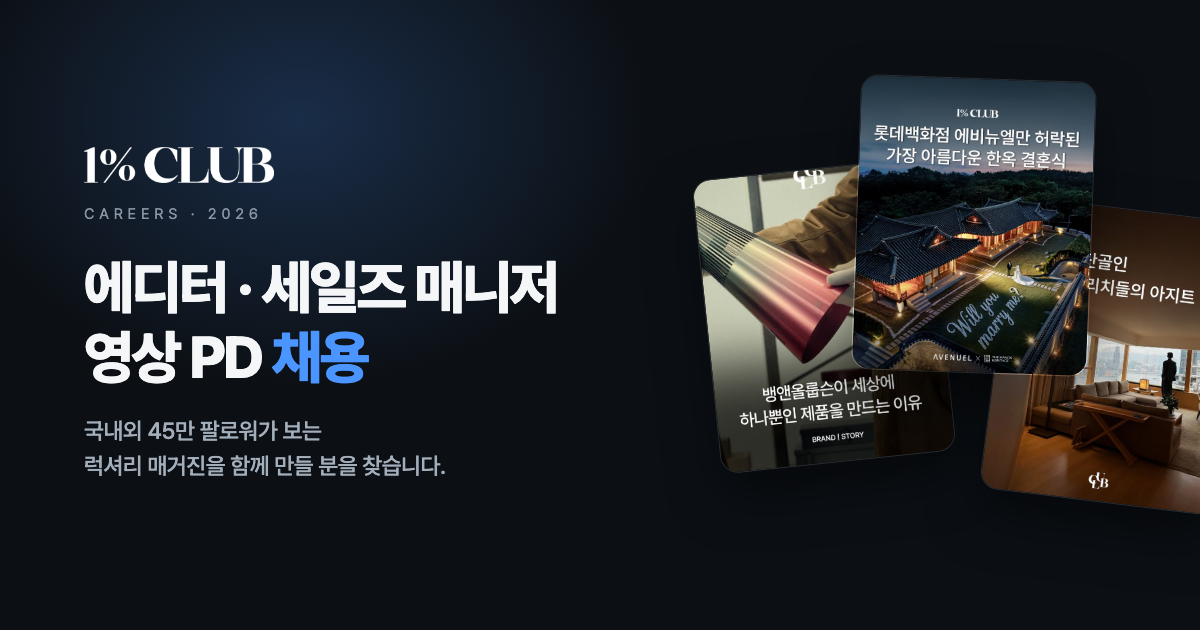
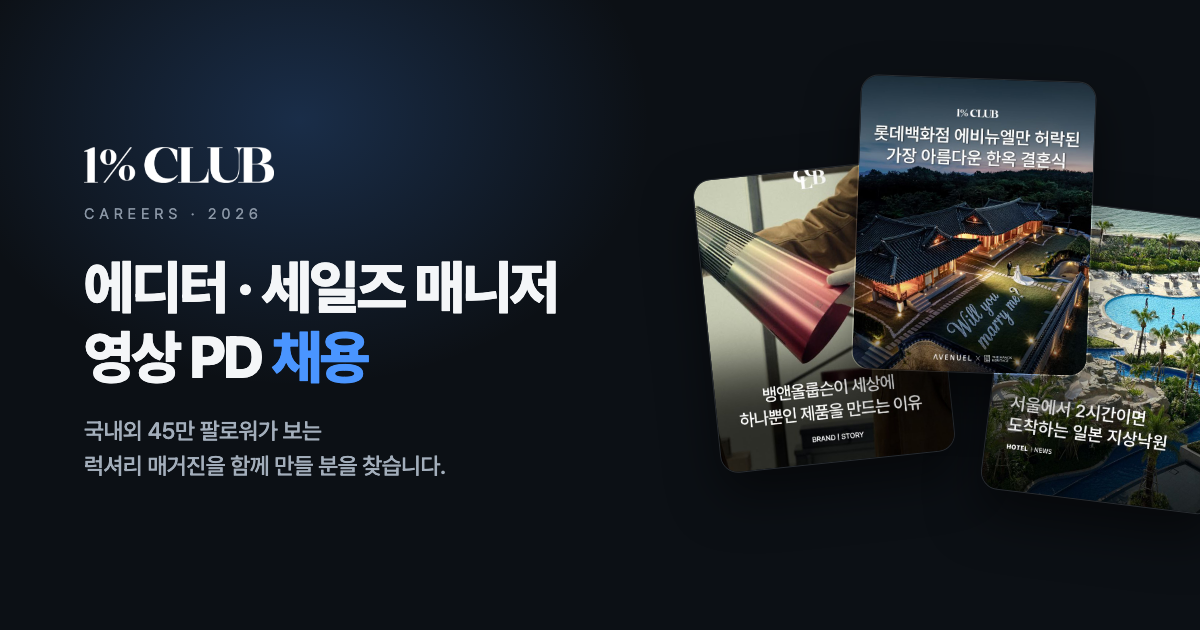
콘텐츠 팀 채용 기준 반영: 경력 무관·콘텐츠 링크로 판단·기획력 최우선
- 에디터·영상 PD: 경력 무관, 직접 만든 콘텐츠 링크 필수, 이력서·자기소개서 선택
- 지원 메일 양식과 필수 항목, 채용 절차 문구 갱신, JSON-LD experienceRequirements 추가
- 연예인 이름이 있는 표지(cv-upperhouse) 제거, 공유 미리보기 이미지 재생성

Changed region(s): [[0.8017, 0.3317, 1.0, 0.8143]]

diff --git a/index.html b/index.html
@@ -37,7 +37,7 @@
     {
       "@type": "JobPosting",
       "title": "에디터 (Content Editor)",
-      "description": "<p>1%CLUB 코리아의 콘텐츠를 기획하고, 취재하고, 씁니다.<\/p><p><strong>이런 일을 합니다<\/strong><\/p><ul><li>@1club.kr 데일리 콘텐츠를 기획하고 만듭니다. 차량, 호텔, 미식, 패션, 아트, 리빙을 다룹니다.<\/li><li>브랜드 광고 콘텐츠를 기획부터 시안, 컨펌, 업로드까지 진행합니다.<\/li><li>운영 대행 중인 브랜드 공식 계정의 콘텐츠도 기획하고 만듭니다.<\/li><li>브랜드 행사, 팝업, 호텔 현장을 취재하고 인터뷰합니다.<\/li><li>캐러셀·릴스 카피와 캡션, 웹매거진 아티클을 씁니다.<\/li><li>조회·저장·공유 데이터를 보고 다음 기획에 반영합니다.<\/li><\/ul><p><strong>이런 분을 찾습니다<\/strong><\/p><ul><li>짧은 문장으로 읽는 사람의 마음을 움직일 수 있는 분<\/li><li>럭셔리·라이프스타일 브랜드를 좋아하고 꾸준히 찾아보는 분<\/li><li>인스타그램 캐러셀과 릴스의 문법을 이해하는 분<\/li><li>여러 콘텐츠의 마감과 일정을 스스로 관리하는 분<\/li><\/ul><p><strong>이런 분이면 더 좋습니다<\/strong><\/p><ul><li>매거진, 브랜드, SNS 채널 에디터 경험<\/li><li>영어 인터뷰가 가능한 분<\/li><li>사진 촬영과 간단한 영상 편집이 가능한 분<\/li><li>트렌드를 빠르게 읽고, 새 도구를 배우는 데 적극적인 분<\/li><\/ul><p><strong>근무 조건<\/strong><\/p><ul><li>근무지: 서울 성동구 왕십리로2길 20, 4층 (1%CLUB 성수 사무실)<\/li><li>근무 시간: 주 5일, 10:00~19:00 (직무 특성상 행사 취재·촬영 일정에 따라 야간·주말 근무나 국내외 출장이 있을 수 있음)<\/li><li>근무 형태: 풀타임 (계약 형태와 수습 기간은 면접에서 안내)<\/li><li>급여: 면접 후 협의<\/li><li>지원: jh.kim@1percentclub.kr 이메일 접수, 채용 시 마감<\/li><\/ul>",
+      "description": "<p>1%CLUB 코리아의 콘텐츠를 기획하고, 취재하고, 씁니다.<\/p><p><b>경력은 보지 않습니다.<\/b> 직접 만든 콘텐츠 링크로만 판단합니다. 무엇보다 기획력을 봅니다. 사람들이 무엇을 원하는지 읽고, 어떤 콘텐츠를 만들어야 할지 기획하는 분이 필요합니다.<\/p>\n<h4>이런 일을 합니다<\/h4>\n<ol>\n<li>@1club.kr 데일리 콘텐츠를 기획하고 만듭니다. 차량, 호텔, 미식, 패션, 아트, 리빙을 다룹니다.<\/li>\n<li>브랜드 광고 콘텐츠를 기획부터 시안, 컨펌, 업로드까지 진행합니다.<\/li>\n<li>운영 대행 중인 브랜드 공식 계정의 콘텐츠도 기획하고 만듭니다.<\/li>\n<li>브랜드 행사, 팝업, 호텔 현장을 취재하고 인터뷰합니다.<\/li>\n<li>캐러셀·릴스 카피와 캡션, 웹매거진 아티클을 씁니다.<\/li>\n<li>조회·저장·공유 데이터를 보고 다음 기획에 반영합니다.<\/li>\n<\/ol>\n\n<h4>이런 분을 찾습니다<\/h4>\n<ul>\n<li>사람들이 무엇을 원하는지 읽고, 어떤 콘텐츠를 만들어야 할지 기획하는 분<\/li>\n<li>짧은 문장으로 읽는 사람의 마음을 움직일 수 있는 분<\/li>\n<li>럭셔리·라이프스타일 브랜드를 좋아하고 꾸준히 찾아보는 분<\/li>\n<li>인스타그램 캐러셀과 릴스의 문법을 이해하는 분<\/li>\n<li>여러 콘텐츠의 마감과 일정을 스스로 관리하는 분<\/li>\n<\/ul>\n\n<h4>이런 분이면 더 좋습니다<\/h4>\n<ul class=\"plus\">\n<li>직접 기획하고 운영해 본 SNS 계정이나 콘텐츠가 있는 분<\/li>\n<li>영어 인터뷰가 가능한 분<\/li>\n<li>사진 촬영과 간단한 영상 편집이 가능한 분<\/li>\n<li>트렌드를 빠르게 읽고, 새 도구를 배우는 데 적극적인 분<\/li>\n<\/ul>\n<p><b>익숙함 80%, 신선함 20%.<\/b> 1%CLUB의 기획 기준입니다. 독자가 이미 좋아하는 것에 새로운 한 가지를 더합니다.<\/p>\n<h4>제출 서류<\/h4>\n<ul class=\"role-docs\"><li>직접 기획하고 만든 콘텐츠 링크 (필수)<\/li><li>이력서·자기소개서 (선택)<\/li><\/ul>\n<p><small>링크마다 맡은 역할과 기획 의도를 한 줄씩 적어 주시면 좋습니다.<\/small><\/p>\n<p><strong>근무 조건<\/strong><\/p><ul><li>근무지: 서울 성동구 왕십리로2길 20, 4층 (1%CLUB 성수 사무실)<\/li><li>근무 시간: 주 5일, 10:00~19:00 (직무 특성상 행사 취재·촬영 일정에 따라 야간·주말 근무나 국내외 출장이 있을 수 있음)<\/li><li>근무 형태: 풀타임 (계약 형태와 수습 기간은 면접에서 안내)<\/li><li>급여: 면접 후 협의<\/li><li>지원: jh.kim@1percentclub.kr 이메일 접수, 채용 시 마감<\/li><\/ul>",
       "datePosted": "2026-10-21",
       "employmentType": "FULL_TIME",
       "url": "https://jhkim-lgtm.github.io/careers/#editor",
@@ -61,12 +61,13 @@
           "addressCountry": "KR"
         }
       },
-      "directApply": false
+      "directApply": false,
+      "experienceRequirements": "no requirements"
     },
     {
       "@type": "JobPosting",
       "title": "세일즈 매니저 (Sales Manager)",
-      "description": "<p>브랜드의 문의를 계약으로, 계약을 다음 계약으로 만듭니다.<\/p><p><strong>이런 일을 합니다<\/strong><\/p><ul><li>광고 문의를 응대합니다. 접수부터 유선 상담, 제안, 계약까지 맡습니다.<\/li><li>제안서와 견적서를 쓰고 브랜드 미팅을 진행합니다.<\/li><li>계약 이후를 챙깁니다. 세금계산서, 광고 소재 요청, 에디터 전달, 시안 컨펌, 업로드까지 관리합니다.<\/li><li>VIP 디너, 클래스, 브랜드 행사 같은 오프라인 이벤트를 총괄 PM으로 진행합니다.<\/li><li>VIP·인플루언서 리스트를 관리합니다.<\/li><li>기존 고객과 재계약하고, 운영 대행까지 거래를 넓힙니다.<\/li><\/ul><p><strong>이런 분을 찾습니다<\/strong><\/p><ul><li>영어로 메일을 쓰고 미팅을 진행할 수 있는 분<\/li><li>책임감 있고 꼼꼼한 분<\/li><li>눈치와 센스, 비즈니스 매너를 갖춘 분<\/li><li>빠르게 회신하고 끝까지 챙기는 분<\/li><\/ul><p><strong>이런 분이면 더 좋습니다<\/strong><\/p><ul><li>광고·미디어·PR 에이전시의 세일즈 또는 광고주 담당(AE) 경험<\/li><li>럭셔리, 호텔, F&amp;B, 주류 업계 경험<\/li><li>행사 기획·운영 경험<\/li><li>일본어나 중국어가 가능한 분<\/li><\/ul><p><strong>근무 조건<\/strong><\/p><ul><li>근무지: 서울 성동구 왕십리로2길 20, 4층 (1%CLUB 성수 사무실)<\/li><li>근무 시간: 주 5일, 10:00~19:00 (직무 특성상 행사 취재·촬영 일정에 따라 야간·주말 근무나 국내외 출장이 있을 수 있음)<\/li><li>근무 형태: 풀타임 (계약 형태와 수습 기간은 면접에서 안내)<\/li><li>급여: 면접 후 협의<\/li><li>지원: jh.kim@1percentclub.kr 이메일 접수, 채용 시 마감<\/li><\/ul>",
+      "description": "<p>브랜드의 문의를 계약으로, 계약을 다음 계약으로 만듭니다.<\/p>\n<h4>이런 일을 합니다<\/h4>\n<ol>\n<li>광고 문의를 응대합니다. 접수부터 유선 상담, 제안, 계약까지 맡습니다.<\/li>\n<li>제안서와 견적서를 쓰고 브랜드 미팅을 진행합니다.<\/li>\n<li>계약 이후를 챙깁니다. 세금계산서, 광고 소재 요청, 에디터 전달, 시안 컨펌, 업로드까지 관리합니다.<\/li>\n<li>VIP 디너, 클래스, 브랜드 행사 같은 오프라인 이벤트를 총괄 PM으로 진행합니다.<\/li>\n<li>VIP·인플루언서 리스트를 관리합니다.<\/li>\n<li>기존 고객과 재계약하고, 운영 대행까지 거래를 넓힙니다.<\/li>\n<\/ol>\n\n<h4>이런 분을 찾습니다<\/h4>\n<ul>\n<li>영어로 메일을 쓰고 미팅을 진행할 수 있는 분<\/li>\n<li>책임감 있고 꼼꼼한 분<\/li>\n<li>눈치와 센스, 비즈니스 매너를 갖춘 분<\/li>\n<li>빠르게 회신하고 끝까지 챙기는 분<\/li>\n<\/ul>\n\n<h4>이런 분이면 더 좋습니다<\/h4>\n<ul class=\"plus\">\n<li>광고·미디어·PR 에이전시의 세일즈 또는 광고주 담당(AE) 경험<\/li>\n<li>럭셔리, 호텔, F&amp;B, 주류 업계 경험<\/li>\n<li>행사 기획·운영 경험<\/li>\n<li>일본어나 중국어가 가능한 분<\/li>\n<\/ul>\n<p><b>와서 배우면 됩니다.<\/b> 빠르게 익히는 분이라면 신입도 환영합니다.<\/p>\n<h4>제출 서류<\/h4>\n<ul class=\"role-docs\"><li>이력서<\/li><li>자기소개서 (자유 형식)<\/li><\/ul>\n<p><strong>근무 조건<\/strong><\/p><ul><li>근무지: 서울 성동구 왕십리로2길 20, 4층 (1%CLUB 성수 사무실)<\/li><li>근무 시간: 주 5일, 10:00~19:00 (직무 특성상 행사 취재·촬영 일정에 따라 야간·주말 근무나 국내외 출장이 있을 수 있음)<\/li><li>근무 형태: 풀타임 (계약 형태와 수습 기간은 면접에서 안내)<\/li><li>급여: 면접 후 협의<\/li><li>지원: jh.kim@1percentclub.kr 이메일 접수, 채용 시 마감<\/li><\/ul>",
       "datePosted": "2026-10-21",
       "employmentType": "FULL_TIME",
       "url": "https://jhkim-lgtm.github.io/careers/#sales",
@@ -95,7 +96,7 @@
     {
       "@type": "JobPosting",
       "title": "영상 PD (현장 촬영 · 팟캐스트 촬영)",
-      "description": "<p>브랜드 현장과 팟캐스트를 찍고, 1%CLUB다운 영상으로 완성합니다.<\/p><p><strong>이런 일을 합니다<\/strong><\/p><ul><li>브랜드 행사, 팝업, 호텔, 레스토랑 현장에서 영상과 사진을 촬영합니다.<\/li><li>비디오 팟캐스트와 인터뷰를 촬영합니다. 멀티캠, 조명, 오디오 세팅부터 녹화까지 맡습니다.<\/li><li>릴스·쇼츠 같은 숏폼과 유튜브 롱폼을 편집합니다.<\/li><li>콘티와 촬영 리스트를 만들고 현장을 진행합니다.<\/li><li>촬영 장비를 관리합니다.<\/li><\/ul><p><strong>이런 분을 찾습니다<\/strong><\/p><ul><li>촬영·편집 포트폴리오가 있는 분<\/li><li>카메라, 조명, 오디오 장비를 다룰 수 있는 분<\/li><li>프리미어 프로, 파이널 컷 프로, 다빈치 리졸브 중 하나 이상에 능숙한 분<\/li><li>현장 변수에 빠르게 대응하는 분<\/li><\/ul><p><strong>이런 분이면 더 좋습니다<\/strong><\/p><ul><li>멀티캠 인터뷰·팟캐스트 촬영 경험<\/li><li>드론 촬영 경험<\/li><li>색보정과 사운드 믹싱 경험<\/li><li>럭셔리, 패션, F&amp;B 브랜드 촬영 경험<\/li><\/ul><p><strong>근무 조건<\/strong><\/p><ul><li>근무지: 서울 성동구 왕십리로2길 20, 4층 (1%CLUB 성수 사무실)<\/li><li>근무 시간: 주 5일, 10:00~19:00 (직무 특성상 행사 취재·촬영 일정에 따라 야간·주말 근무나 국내외 출장이 있을 수 있음)<\/li><li>근무 형태: 풀타임 (계약 형태와 수습 기간은 면접에서 안내)<\/li><li>급여: 면접 후 협의<\/li><li>지원: jh.kim@1percentclub.kr 이메일 접수, 채용 시 마감<\/li><\/ul>",
+      "description": "<p>브랜드 현장과 팟캐스트를 찍고, 1%CLUB다운 영상으로 완성합니다.<\/p><p><b>경력은 보지 않습니다.<\/b> 직접 만든 콘텐츠 링크로만 판단합니다. 무엇보다 기획력을 봅니다. 사람들이 무엇을 원하는지 읽고, 어떤 콘텐츠를 만들어야 할지 기획하는 분이 필요합니다.<\/p>\n<h4>이런 일을 합니다<\/h4>\n<ol>\n<li>브랜드 행사, 팝업, 호텔, 레스토랑 현장에서 영상과 사진을 촬영합니다.<\/li>\n<li>비디오 팟캐스트와 인터뷰를 촬영합니다. 멀티캠, 조명, 오디오 세팅부터 녹화까지 맡습니다.<\/li>\n<li>릴스·쇼츠 같은 숏폼과 유튜브 롱폼을 편집합니다.<\/li>\n<li>콘티와 촬영 리스트를 만들고 현장을 진행합니다.<\/li>\n<li>촬영 장비를 관리합니다.<\/li>\n<\/ol>\n\n<h4>이런 분을 찾습니다<\/h4>\n<ul>\n<li>사람들이 무엇을 원하는지 읽고, 어떤 콘텐츠를 만들어야 할지 기획하는 분<\/li>\n<li>직접 촬영하고 편집한 콘텐츠가 있는 분<\/li>\n<li>카메라, 조명, 오디오 장비를 다룰 수 있는 분<\/li>\n<li>프리미어 프로, 파이널 컷 프로, 다빈치 리졸브 중 하나 이상에 능숙한 분<\/li>\n<li>현장 변수에 빠르게 대응하는 분<\/li>\n<\/ul>\n\n<h4>이런 분이면 더 좋습니다<\/h4>\n<ul class=\"plus\">\n<li>멀티캠 인터뷰나 팟캐스트를 찍을 수 있는 분<\/li>\n<li>드론 촬영이 가능한 분<\/li>\n<li>색보정과 사운드 믹싱이 가능한 분<\/li>\n<li>럭셔리·패션·F&amp;B 브랜드 영상을 만들어 본 분<\/li>\n<\/ul>\n<p><b>현장이 많은 자리입니다.<\/b> 브랜드 행사 촬영은 저녁에 진행되기도 합니다.<\/p>\n<h4>제출 서류<\/h4>\n<ul class=\"role-docs\"><li>직접 촬영·편집한 콘텐츠 링크 (필수)<\/li><li>이력서·자기소개서 (선택)<\/li><\/ul>\n<p><small>링크마다 맡은 역할과 기획 의도를 한 줄씩 적어 주시면 좋습니다.<\/small><\/p>\n<p><strong>근무 조건<\/strong><\/p><ul><li>근무지: 서울 성동구 왕십리로2길 20, 4층 (1%CLUB 성수 사무실)<\/li><li>근무 시간: 주 5일, 10:00~19:00 (직무 특성상 행사 취재·촬영 일정에 따라 야간·주말 근무나 국내외 출장이 있을 수 있음)<\/li><li>근무 형태: 풀타임 (계약 형태와 수습 기간은 면접에서 안내)<\/li><li>급여: 면접 후 협의<\/li><li>지원: jh.kim@1percentclub.kr 이메일 접수, 채용 시 마감<\/li><\/ul>",
       "datePosted": "2026-10-21",
       "employmentType": "FULL_TIME",
       "url": "https://jhkim-lgtm.github.io/careers/#pd",
@@ -119,7 +120,8 @@
           "addressCountry": "KR"
         }
       },
-      "directApply": false
+      "directApply": false,
+      "experienceRequirements": "no requirements"
     }
   ]
 }
@@ -163,7 +165,7 @@
     <div class="marquee-track">
       <img src="assets/img/cv-bo.jpg" alt="" width="640" height="800">
       <img src="assets/img/cv-hanok.jpg" alt="" width="640" height="800">
-      <img src="assets/img/cv-upperhouse.jpg" alt="" width="640" height="800">
+      <img src="assets/img/cv-capella.jpg" alt="" width="640" height="800">
       <img src="assets/img/cv-grill.jpg" alt="" width="640" height="800">
       <img src="assets/img/cv-ryukyu.jpg" alt="" width="640" height="800" loading="lazy">
       <img src="assets/img/cv-chapel.jpg" alt="" width="640" height="800" loading="lazy">
@@ -171,7 +173,7 @@
       <img src="assets/img/cv-hyatt.jpg" alt="" width="640" height="800" loading="lazy">
       <img src="assets/img/cv-bo.jpg" alt="" width="640" height="800" loading="lazy">
       <img src="assets/img/cv-hanok.jpg" alt="" width="640" height="800" loading="lazy">
-      <img src="assets/img/cv-upperhouse.jpg" alt="" width="640" height="800" loading="lazy">
+      <img src="assets/img/cv-capella.jpg" alt="" width="640" height="800" loading="lazy">
       <img src="assets/img/cv-grill.jpg" alt="" width="640" height="800" loading="lazy">
       <img src="assets/img/cv-ryukyu.jpg" alt="" width="640" height="800" loading="lazy">
       <img src="assets/img/cv-chapel.jpg" alt="" width="640" height="800" loading="lazy">
@@ -391,7 +393,7 @@
     <div class="reveal">
       <p class="kicker" lang="en">05 · Open positions</p>
       <h2 class="h2" id="positions-title">지금 세 포지션에서<br class="br-m"> 함께할 분을 찾습니다.</h2>
-      <p class="lead">세 포지션 모두 성수 사무실에서 풀타임으로 일합니다. 포지션을 고르면 하는 일과 찾는 사람을 볼 수 있습니다.</p>
+      <p class="lead">세 포지션 모두 성수 사무실에서 풀타임으로 일합니다. 포지션을 고르면 하는 일과 찾는 사람을 볼 수 있습니다. 콘텐츠 팀(에디터·영상 PD)은 경력을 보지 않습니다. 직접 만든 콘텐츠로만 판단합니다.</p>
     </div>
 
     <div class="role-tabs body-gap" id="role-tabs" role="tablist" aria-label="채용 포지션">
@@ -401,23 +403,24 @@
     </div>
 
     <!-- EDITOR -->
-    <div class="role" id="editor" role="tabpanel" aria-labelledby="tab-editor" tabindex="-1" data-role="에디터" data-mailto="mailto:jh.kim@1percentclub.kr?subject=%5B%EC%A7%80%EC%9B%90%5D%20%EC%97%90%EB%94%94%ED%84%B0_%EC%9D%B4%EB%A6%84&amp;body=1.%20%EC%A7%80%EC%9B%90%20%ED%8F%AC%EC%A7%80%EC%85%98%3A%20%EC%97%90%EB%94%94%ED%84%B0%0D%0A2.%20%EC%9D%B4%EB%A6%84%3A%0D%0A3.%20%EC%97%B0%EB%9D%BD%EC%B2%98%3A%0D%0A4.%20%ED%9D%AC%EB%A7%9D%20%EC%97%B0%EB%B4%89%3A%0D%0A5.%20%EC%9D%B8%EC%8A%A4%ED%83%80%EA%B7%B8%EB%9E%A8%20%EC%95%84%EC%9D%B4%EB%94%94%3A%0D%0A6.%20%ED%8F%AC%ED%8A%B8%ED%8F%B4%EB%A6%AC%EC%98%A4%20%EB%A7%81%ED%81%AC%3A%0D%0A%0D%0A%EC%9D%B4%EB%A0%A5%EC%84%9C%EC%99%80%20%EC%9E%90%EA%B8%B0%EC%86%8C%EA%B0%9C%EC%84%9C%EB%A5%BC%20%EC%B2%A8%EB%B6%80%ED%95%98%EA%B1%B0%EB%82%98%20%EB%A7%81%ED%81%AC%EB%A1%9C%20%EB%B3%B4%EB%82%B4%20%EC%A3%BC%EC%84%B8%EC%9A%94.">
+    <div class="role" id="editor" role="tabpanel" aria-labelledby="tab-editor" tabindex="-1" data-role="에디터" data-mailto="mailto:jh.kim@1percentclub.kr?subject=%5B%EC%A7%80%EC%9B%90%5D%20%EC%97%90%EB%94%94%ED%84%B0_%EC%9D%B4%EB%A6%84&amp;body=1.%20%EC%A7%80%EC%9B%90%20%ED%8F%AC%EC%A7%80%EC%85%98%3A%20%EC%97%90%EB%94%94%ED%84%B0%0D%0A2.%20%EC%9D%B4%EB%A6%84%3A%0D%0A3.%20%EC%97%B0%EB%9D%BD%EC%B2%98%3A%0D%0A4.%20%ED%9D%AC%EB%A7%9D%20%EC%97%B0%EB%B4%89%3A%0D%0A5.%20%EC%9D%B8%EC%8A%A4%ED%83%80%EA%B7%B8%EB%9E%A8%20%EC%95%84%EC%9D%B4%EB%94%94%3A%0D%0A6.%20%EC%A7%81%EC%A0%91%20%EB%A7%8C%EB%93%A0%20%EC%BD%98%ED%85%90%EC%B8%A0%20%EB%A7%81%ED%81%AC%28%ED%95%84%EC%88%98%2C%20%EB%A7%81%ED%81%AC%EB%A7%88%EB%8B%A4%20%EB%A7%A1%EC%9D%80%20%EC%97%AD%ED%95%A0%EA%B3%BC%20%EA%B8%B0%ED%9A%8D%20%EC%9D%98%EB%8F%84%20%ED%95%9C%20%EC%A4%84%29%3A%0D%0A%0D%0A%EA%B2%BD%EB%A0%A5%EC%9D%80%20%EB%B3%B4%EC%A7%80%20%EC%95%8A%EA%B3%A0%20%EC%BD%98%ED%85%90%EC%B8%A0%EB%A1%9C%20%ED%8C%90%EB%8B%A8%ED%95%A9%EB%8B%88%EB%8B%A4.%20%EC%9D%B4%EB%A0%A5%EC%84%9C%EC%99%80%20%EC%9E%90%EA%B8%B0%EC%86%8C%EA%B0%9C%EC%84%9C%EB%8A%94%20%EC%84%A0%ED%83%9D%EC%9E%85%EB%8B%88%EB%8B%A4.">
       <div class="role-side">
         <div class="card role-card">
           <p class="eyebrow" lang="en">Position 01</p>
           <h3 class="role-title">에디터</h3>
           <p class="role-en" lang="en">Content Editor</p>
           <p class="role-one">1%CLUB 코리아의 콘텐츠를 기획하고, 취재하고, 씁니다.</p>
-          <ul class="tags"><li>풀타임</li><li>성수</li><li>포트폴리오 필수</li></ul>
-          <a class="btn btn-primary btn-block" href="mailto:jh.kim@1percentclub.kr?subject=%5B%EC%A7%80%EC%9B%90%5D%20%EC%97%90%EB%94%94%ED%84%B0_%EC%9D%B4%EB%A6%84&amp;body=1.%20%EC%A7%80%EC%9B%90%20%ED%8F%AC%EC%A7%80%EC%85%98%3A%20%EC%97%90%EB%94%94%ED%84%B0%0D%0A2.%20%EC%9D%B4%EB%A6%84%3A%0D%0A3.%20%EC%97%B0%EB%9D%BD%EC%B2%98%3A%0D%0A4.%20%ED%9D%AC%EB%A7%9D%20%EC%97%B0%EB%B4%89%3A%0D%0A5.%20%EC%9D%B8%EC%8A%A4%ED%83%80%EA%B7%B8%EB%9E%A8%20%EC%95%84%EC%9D%B4%EB%94%94%3A%0D%0A6.%20%ED%8F%AC%ED%8A%B8%ED%8F%B4%EB%A6%AC%EC%98%A4%20%EB%A7%81%ED%81%AC%3A%0D%0A%0D%0A%EC%9D%B4%EB%A0%A5%EC%84%9C%EC%99%80%20%EC%9E%90%EA%B8%B0%EC%86%8C%EA%B0%9C%EC%84%9C%EB%A5%BC%20%EC%B2%A8%EB%B6%80%ED%95%98%EA%B1%B0%EB%82%98%20%EB%A7%81%ED%81%AC%EB%A1%9C%20%EB%B3%B4%EB%82%B4%20%EC%A3%BC%EC%84%B8%EC%9A%94.">에디터 지원하기</a>
+          <ul class="tags"><li>풀타임</li><li>성수</li><li>경력 무관</li><li>콘텐츠 링크로 지원</li></ul>
+          <a class="btn btn-primary btn-block" href="mailto:jh.kim@1percentclub.kr?subject=%5B%EC%A7%80%EC%9B%90%5D%20%EC%97%90%EB%94%94%ED%84%B0_%EC%9D%B4%EB%A6%84&amp;body=1.%20%EC%A7%80%EC%9B%90%20%ED%8F%AC%EC%A7%80%EC%85%98%3A%20%EC%97%90%EB%94%94%ED%84%B0%0D%0A2.%20%EC%9D%B4%EB%A6%84%3A%0D%0A3.%20%EC%97%B0%EB%9D%BD%EC%B2%98%3A%0D%0A4.%20%ED%9D%AC%EB%A7%9D%20%EC%97%B0%EB%B4%89%3A%0D%0A5.%20%EC%9D%B8%EC%8A%A4%ED%83%80%EA%B7%B8%EB%9E%A8%20%EC%95%84%EC%9D%B4%EB%94%94%3A%0D%0A6.%20%EC%A7%81%EC%A0%91%20%EB%A7%8C%EB%93%A0%20%EC%BD%98%ED%85%90%EC%B8%A0%20%EB%A7%81%ED%81%AC%28%ED%95%84%EC%88%98%2C%20%EB%A7%81%ED%81%AC%EB%A7%88%EB%8B%A4%20%EB%A7%A1%EC%9D%80%20%EC%97%AD%ED%95%A0%EA%B3%BC%20%EA%B8%B0%ED%9A%8D%20%EC%9D%98%EB%8F%84%20%ED%95%9C%20%EC%A4%84%29%3A%0D%0A%0D%0A%EA%B2%BD%EB%A0%A5%EC%9D%80%20%EB%B3%B4%EC%A7%80%20%EC%95%8A%EA%B3%A0%20%EC%BD%98%ED%85%90%EC%B8%A0%EB%A1%9C%20%ED%8C%90%EB%8B%A8%ED%95%A9%EB%8B%88%EB%8B%A4.%20%EC%9D%B4%EB%A0%A5%EC%84%9C%EC%99%80%20%EC%9E%90%EA%B8%B0%EC%86%8C%EA%B0%9C%EC%84%9C%EB%8A%94%20%EC%84%A0%ED%83%9D%EC%9E%85%EB%8B%88%EB%8B%A4.">에디터 지원하기</a>
         </div>
         <div class="role-visual">
           <img src="assets/img/cv-bo.jpg" alt="1%CLUB 코리아 콘텐츠 — 뱅앤올룹슨 브랜드 스토리" width="640" height="800" loading="lazy">
-          <img src="assets/img/cv-upperhouse.jpg" alt="1%CLUB 코리아 콘텐츠 — 홍콩 호텔 소개" width="640" height="800" loading="lazy">
+          <img src="assets/img/cv-ryukyu.jpg" alt="1%CLUB 코리아 콘텐츠 — 류큐 호텔 소개" width="640" height="800" loading="lazy">
           <img src="assets/img/cv-wedding.jpg" alt="1%CLUB 코리아 콘텐츠 — 호텔 웨딩 소개" width="640" height="800" loading="lazy">
         </div>
       </div>
       <div class="role-body">
+        <p class="role-note"><b>경력은 보지 않습니다.</b> 직접 만든 콘텐츠 링크로만 판단합니다. 무엇보다 기획력을 봅니다. 사람들이 무엇을 원하는지 읽고, 어떤 콘텐츠를 만들어야 할지 기획하는 분이 필요합니다.</p>
         <div class="card role-block">
           <h4>이런 일을 합니다</h4>
           <ol>
@@ -432,6 +435,7 @@
         <div class="card role-block">
           <h4>이런 분을 찾습니다</h4>
           <ul>
+            <li>사람들이 무엇을 원하는지 읽고, 어떤 콘텐츠를 만들어야 할지 기획하는&nbsp;분</li>
             <li>짧은 문장으로 읽는 사람의 마음을 움직일 수 있는&nbsp;분</li>
             <li>럭셔리·라이프스타일 브랜드를 좋아하고 꾸준히 찾아보는&nbsp;분</li>
             <li>인스타그램 캐러셀과 릴스의 문법을 이해하는&nbsp;분</li>
@@ -441,7 +445,7 @@
         <div class="card role-block">
           <h4>이런 분이면 더 좋습니다</h4>
           <ul class="plus">
-            <li>매거진, 브랜드, SNS 채널 에디터 경험</li>
+            <li>직접 기획하고 운영해 본 SNS 계정이나 콘텐츠가 있는&nbsp;분</li>
             <li>영어 인터뷰가 가능한&nbsp;분</li>
             <li>사진 촬영과 간단한 영상 편집이 가능한&nbsp;분</li>
             <li>트렌드를 빠르게 읽고, 새 도구를 배우는 데 적극적인&nbsp;분</li>
@@ -450,10 +454,11 @@
         <p class="role-note"><b>익숙함 80%, 신선함 20%.</b> 1%CLUB의 기획 기준입니다. 독자가 이미 좋아하는 것에 새로운 한 가지를 더합니다.</p>
         <div class="card role-block">
           <h4>제출 서류</h4>
-          <ul class="role-docs"><li>이력서</li><li>자기소개서 (자유 형식)</li><li>직접 쓴 콘텐츠 포트폴리오 (링크 가능)</li></ul>
+          <ul class="role-docs"><li>직접 기획하고 만든 콘텐츠 링크 (필수)</li><li>이력서·자기소개서 (선택)</li></ul>
+          <p><small>링크마다 맡은 역할과 기획 의도를 한 줄씩 적어 주시면 좋습니다.</small></p>
         </div>
         <div class="role-apply">
-          <a class="btn btn-primary btn-block" href="mailto:jh.kim@1percentclub.kr?subject=%5B%EC%A7%80%EC%9B%90%5D%20%EC%97%90%EB%94%94%ED%84%B0_%EC%9D%B4%EB%A6%84&amp;body=1.%20%EC%A7%80%EC%9B%90%20%ED%8F%AC%EC%A7%80%EC%85%98%3A%20%EC%97%90%EB%94%94%ED%84%B0%0D%0A2.%20%EC%9D%B4%EB%A6%84%3A%0D%0A3.%20%EC%97%B0%EB%9D%BD%EC%B2%98%3A%0D%0A4.%20%ED%9D%AC%EB%A7%9D%20%EC%97%B0%EB%B4%89%3A%0D%0A5.%20%EC%9D%B8%EC%8A%A4%ED%83%80%EA%B7%B8%EB%9E%A8%20%EC%95%84%EC%9D%B4%EB%94%94%3A%0D%0A6.%20%ED%8F%AC%ED%8A%B8%ED%8F%B4%EB%A6%AC%EC%98%A4%20%EB%A7%81%ED%81%AC%3A%0D%0A%0D%0A%EC%9D%B4%EB%A0%A5%EC%84%9C%EC%99%80%20%EC%9E%90%EA%B8%B0%EC%86%8C%EA%B0%9C%EC%84%9C%EB%A5%BC%20%EC%B2%A8%EB%B6%80%ED%95%98%EA%B1%B0%EB%82%98%20%EB%A7%81%ED%81%AC%EB%A1%9C%20%EB%B3%B4%EB%82%B4%20%EC%A3%BC%EC%84%B8%EC%9A%94.">에디터 지원하기</a>
+          <a class="btn btn-primary btn-block" href="mailto:jh.kim@1percentclub.kr?subject=%5B%EC%A7%80%EC%9B%90%5D%20%EC%97%90%EB%94%94%ED%84%B0_%EC%9D%B4%EB%A6%84&amp;body=1.%20%EC%A7%80%EC%9B%90%20%ED%8F%AC%EC%A7%80%EC%85%98%3A%20%EC%97%90%EB%94%94%ED%84%B0%0D%0A2.%20%EC%9D%B4%EB%A6%84%3A%0D%0A3.%20%EC%97%B0%EB%9D%BD%EC%B2%98%3A%0D%0A4.%20%ED%9D%AC%EB%A7%9D%20%EC%97%B0%EB%B4%89%3A%0D%0A5.%20%EC%9D%B8%EC%8A%A4%ED%83%80%EA%B7%B8%EB%9E%A8%20%EC%95%84%EC%9D%B4%EB%94%94%3A%0D%0A6.%20%EC%A7%81%EC%A0%91%20%EB%A7%8C%EB%93%A0%20%EC%BD%98%ED%85%90%EC%B8%A0%20%EB%A7%81%ED%81%AC%28%ED%95%84%EC%88%98%2C%20%EB%A7%81%ED%81%AC%EB%A7%88%EB%8B%A4%20%EB%A7%A1%EC%9D%80%20%EC%97%AD%ED%95%A0%EA%B3%BC%20%EA%B8%B0%ED%9A%8D%20%EC%9D%98%EB%8F%84%20%ED%95%9C%20%EC%A4%84%29%3A%0D%0A%0D%0A%EA%B2%BD%EB%A0%A5%EC%9D%80%20%EB%B3%B4%EC%A7%80%20%EC%95%8A%EA%B3%A0%20%EC%BD%98%ED%85%90%EC%B8%A0%EB%A1%9C%20%ED%8C%90%EB%8B%A8%ED%95%A9%EB%8B%88%EB%8B%A4.%20%EC%9D%B4%EB%A0%A5%EC%84%9C%EC%99%80%20%EC%9E%90%EA%B8%B0%EC%86%8C%EA%B0%9C%EC%84%9C%EB%8A%94%20%EC%84%A0%ED%83%9D%EC%9E%85%EB%8B%88%EB%8B%A4.">에디터 지원하기</a>
           <p class="role-mail"><span>jh.kim@1percentclub.kr</span><button class="copy-btn" type="button" data-copy="jh.kim@1percentclub.kr">주소 복사</button></p>
         </div>
         <p class="role-switch">다른 포지션 보기 <a href="#sales">세일즈 매니저</a><a href="#pd">영상 PD</a></p>
@@ -521,15 +526,15 @@
     </div><!-- /role -->
 
     <!-- VIDEO PD -->
-    <div class="role" id="pd" role="tabpanel" aria-labelledby="tab-pd" tabindex="-1" data-role="영상 PD" data-mailto="mailto:jh.kim@1percentclub.kr?subject=%5B%EC%A7%80%EC%9B%90%5D%20%EC%98%81%EC%83%81%20PD_%EC%9D%B4%EB%A6%84&amp;body=1.%20%EC%A7%80%EC%9B%90%20%ED%8F%AC%EC%A7%80%EC%85%98%3A%20%EC%98%81%EC%83%81%20PD%0D%0A2.%20%EC%9D%B4%EB%A6%84%3A%0D%0A3.%20%EC%97%B0%EB%9D%BD%EC%B2%98%3A%0D%0A4.%20%ED%9D%AC%EB%A7%9D%20%EC%97%B0%EB%B4%89%3A%0D%0A5.%20%EC%9D%B8%EC%8A%A4%ED%83%80%EA%B7%B8%EB%9E%A8%20%EC%95%84%EC%9D%B4%EB%94%94%3A%0D%0A6.%20%ED%8F%AC%ED%8A%B8%ED%8F%B4%EB%A6%AC%EC%98%A4%20%EB%A7%81%ED%81%AC%3A%0D%0A%0D%0A%EC%9D%B4%EB%A0%A5%EC%84%9C%EC%99%80%20%EC%9E%90%EA%B8%B0%EC%86%8C%EA%B0%9C%EC%84%9C%EB%A5%BC%20%EC%B2%A8%EB%B6%80%ED%95%98%EA%B1%B0%EB%82%98%20%EB%A7%81%ED%81%AC%EB%A1%9C%20%EB%B3%B4%EB%82%B4%20%EC%A3%BC%EC%84%B8%EC%9A%94.">
+    <div class="role" id="pd" role="tabpanel" aria-labelledby="tab-pd" tabindex="-1" data-role="영상 PD" data-mailto="mailto:jh.kim@1percentclub.kr?subject=%5B%EC%A7%80%EC%9B%90%5D%20%EC%98%81%EC%83%81%20PD_%EC%9D%B4%EB%A6%84&amp;body=1.%20%EC%A7%80%EC%9B%90%20%ED%8F%AC%EC%A7%80%EC%85%98%3A%20%EC%98%81%EC%83%81%20PD%0D%0A2.%20%EC%9D%B4%EB%A6%84%3A%0D%0A3.%20%EC%97%B0%EB%9D%BD%EC%B2%98%3A%0D%0A4.%20%ED%9D%AC%EB%A7%9D%20%EC%97%B0%EB%B4%89%3A%0D%0A5.%20%EC%9D%B8%EC%8A%A4%ED%83%80%EA%B7%B8%EB%9E%A8%20%EC%95%84%EC%9D%B4%EB%94%94%3A%0D%0A6.%20%EC%A7%81%EC%A0%91%20%EB%A7%8C%EB%93%A0%20%EC%BD%98%ED%85%90%EC%B8%A0%20%EB%A7%81%ED%81%AC%28%ED%95%84%EC%88%98%2C%20%EB%A7%81%ED%81%AC%EB%A7%88%EB%8B%A4%20%EB%A7%A1%EC%9D%80%20%EC%97%AD%ED%95%A0%EA%B3%BC%20%EA%B8%B0%ED%9A%8D%20%EC%9D%98%EB%8F%84%20%ED%95%9C%20%EC%A4%84%29%3A%0D%0A%0D%0A%EA%B2%BD%EB%A0%A5%EC%9D%80%20%EB%B3%B4%EC%A7%80%20%EC%95%8A%EA%B3%A0%20%EC%BD%98%ED%85%90%EC%B8%A0%EB%A1%9C%20%ED%8C%90%EB%8B%A8%ED%95%A9%EB%8B%88%EB%8B%A4.%20%EC%9D%B4%EB%A0%A5%EC%84%9C%EC%99%80%20%EC%9E%90%EA%B8%B0%EC%86%8C%EA%B0%9C%EC%84%9C%EB%8A%94%20%EC%84%A0%ED%83%9D%EC%9E%85%EB%8B%88%EB%8B%A4.">
       <div class="role-side">
         <div class="card role-card">
           <p class="eyebrow" lang="en">Position 03</p>
           <h3 class="role-title">영상 PD</h3>
           <p class="role-en" lang="en">Video PD · On-site &amp; Podcast</p>
           <p class="role-one">브랜드 현장과 팟캐스트를 찍고, 1%CLUB다운 영상으로 완성합니다.</p>
-          <ul class="tags"><li>풀타임</li><li>성수</li><li>포트폴리오 필수</li></ul>
-          <a class="btn btn-primary btn-block" href="mailto:jh.kim@1percentclub.kr?subject=%5B%EC%A7%80%EC%9B%90%5D%20%EC%98%81%EC%83%81%20PD_%EC%9D%B4%EB%A6%84&amp;body=1.%20%EC%A7%80%EC%9B%90%20%ED%8F%AC%EC%A7%80%EC%85%98%3A%20%EC%98%81%EC%83%81%20PD%0D%0A2.%20%EC%9D%B4%EB%A6%84%3A%0D%0A3.%20%EC%97%B0%EB%9D%BD%EC%B2%98%3A%0D%0A4.%20%ED%9D%AC%EB%A7%9D%20%EC%97%B0%EB%B4%89%3A%0D%0A5.%20%EC%9D%B8%EC%8A%A4%ED%83%80%EA%B7%B8%EB%9E%A8%20%EC%95%84%EC%9D%B4%EB%94%94%3A%0D%0A6.%20%ED%8F%AC%ED%8A%B8%ED%8F%B4%EB%A6%AC%EC%98%A4%20%EB%A7%81%ED%81%AC%3A%0D%0A%0D%0A%EC%9D%B4%EB%A0%A5%EC%84%9C%EC%99%80%20%EC%9E%90%EA%B8%B0%EC%86%8C%EA%B0%9C%EC%84%9C%EB%A5%BC%20%EC%B2%A8%EB%B6%80%ED%95%98%EA%B1%B0%EB%82%98%20%EB%A7%81%ED%81%AC%EB%A1%9C%20%EB%B3%B4%EB%82%B4%20%EC%A3%BC%EC%84%B8%EC%9A%94.">영상 PD 지원하기</a>
+          <ul class="tags"><li>풀타임</li><li>성수</li><li>경력 무관</li><li>콘텐츠 링크로 지원</li></ul>
+          <a class="btn btn-primary btn-block" href="mailto:jh.kim@1percentclub.kr?subject=%5B%EC%A7%80%EC%9B%90%5D%20%EC%98%81%EC%83%81%20PD_%EC%9D%B4%EB%A6%84&amp;body=1.%20%EC%A7%80%EC%9B%90%20%ED%8F%AC%EC%A7%80%EC%85%98%3A%20%EC%98%81%EC%83%81%20PD%0D%0A2.%20%EC%9D%B4%EB%A6%84%3A%0D%0A3.%20%EC%97%B0%EB%9D%BD%EC%B2%98%3A%0D%0A4.%20%ED%9D%AC%EB%A7%9D%20%EC%97%B0%EB%B4%89%3A%0D%0A5.%20%EC%9D%B8%EC%8A%A4%ED%83%80%EA%B7%B8%EB%9E%A8%20%EC%95%84%EC%9D%B4%EB%94%94%3A%0D%0A6.%20%EC%A7%81%EC%A0%91%20%EB%A7%8C%EB%93%A0%20%EC%BD%98%ED%85%90%EC%B8%A0%20%EB%A7%81%ED%81%AC%28%ED%95%84%EC%88%98%2C%20%EB%A7%81%ED%81%AC%EB%A7%88%EB%8B%A4%20%EB%A7%A1%EC%9D%80%20%EC%97%AD%ED%95%A0%EA%B3%BC%20%EA%B8%B0%ED%9A%8D%20%EC%9D%98%EB%8F%84%20%ED%95%9C%20%EC%A4%84%29%3A%0D%0A%0D%0A%EA%B2%BD%EB%A0%A5%EC%9D%80%20%EB%B3%B4%EC%A7%80%20%EC%95%8A%EA%B3%A0%20%EC%BD%98%ED%85%90%EC%B8%A0%EB%A1%9C%20%ED%8C%90%EB%8B%A8%ED%95%A9%EB%8B%88%EB%8B%A4.%20%EC%9D%B4%EB%A0%A5%EC%84%9C%EC%99%80%20%EC%9E%90%EA%B8%B0%EC%86%8C%EA%B0%9C%EC%84%9C%EB%8A%94%20%EC%84%A0%ED%83%9D%EC%9E%85%EB%8B%88%EB%8B%A4.">영상 PD 지원하기</a>
         </div>
         <div class="role-visual">
           <img src="assets/img/pr-runway.jpg" alt="1%CLUB이 촬영한 패션쇼 런웨이" width="1600" height="1067" loading="lazy">
@@ -538,6 +543,7 @@
         </div>
       </div>
       <div class="role-body">
+        <p class="role-note"><b>경력은 보지 않습니다.</b> 직접 만든 콘텐츠 링크로만 판단합니다. 무엇보다 기획력을 봅니다. 사람들이 무엇을 원하는지 읽고, 어떤 콘텐츠를 만들어야 할지 기획하는 분이 필요합니다.</p>
         <div class="card role-block">
           <h4>이런 일을 합니다</h4>
           <ol>
@@ -551,7 +557,8 @@
         <div class="card role-block">
           <h4>이런 분을 찾습니다</h4>
           <ul>
-            <li>촬영·편집 포트폴리오가 있는&nbsp;분</li>
+            <li>사람들이 무엇을 원하는지 읽고, 어떤 콘텐츠를 만들어야 할지 기획하는&nbsp;분</li>
+            <li>직접 촬영하고 편집한 콘텐츠가 있는&nbsp;분</li>
             <li>카메라, 조명, 오디오 장비를 다룰 수 있는&nbsp;분</li>
             <li>프리미어 프로, 파이널 컷 프로, 다빈치 리졸브 중 하나 이상에 능숙한&nbsp;분</li>
             <li>현장 변수에 빠르게 대응하는&nbsp;분</li>
@@ -560,19 +567,20 @@
         <div class="card role-block">
           <h4>이런 분이면 더 좋습니다</h4>
           <ul class="plus">
-            <li>멀티캠 인터뷰·팟캐스트 촬영 경험</li>
-            <li>드론 촬영 경험</li>
-            <li>색보정과 사운드 믹싱 경험</li>
-            <li>럭셔리, 패션, F&amp;B 브랜드 촬영 경험</li>
+            <li>멀티캠 인터뷰나 팟캐스트를 찍을 수 있는&nbsp;분</li>
+            <li>드론 촬영이 가능한&nbsp;분</li>
+            <li>색보정과 사운드 믹싱이 가능한&nbsp;분</li>
+            <li>럭셔리·패션·F&amp;B 브랜드 영상을 만들어 본&nbsp;분</li>
           </ul>
         </div>
         <p class="role-note"><b>현장이 많은 자리입니다.</b> 브랜드 행사 촬영은 저녁에 진행되기도 합니다.</p>
         <div class="card role-block">
           <h4>제출 서류</h4>
-          <ul class="role-docs"><li>이력서</li><li>자기소개서 (자유 형식)</li><li>촬영·편집 포트폴리오 (링크 가능)</li></ul>
+          <ul class="role-docs"><li>직접 촬영·편집한 콘텐츠 링크 (필수)</li><li>이력서·자기소개서 (선택)</li></ul>
+          <p><small>링크마다 맡은 역할과 기획 의도를 한 줄씩 적어 주시면 좋습니다.</small></p>
         </div>
         <div class="role-apply">
-          <a class="btn btn-primary btn-block" href="mailto:jh.kim@1percentclub.kr?subject=%5B%EC%A7%80%EC%9B%90%5D%20%EC%98%81%EC%83%81%20PD_%EC%9D%B4%EB%A6%84&amp;body=1.%20%EC%A7%80%EC%9B%90%20%ED%8F%AC%EC%A7%80%EC%85%98%3A%20%EC%98%81%EC%83%81%20PD%0D%0A2.%20%EC%9D%B4%EB%A6%84%3A%0D%0A3.%20%EC%97%B0%EB%9D%BD%EC%B2%98%3A%0D%0A4.%20%ED%9D%AC%EB%A7%9D%20%EC%97%B0%EB%B4%89%3A%0D%0A5.%20%EC%9D%B8%EC%8A%A4%ED%83%80%EA%B7%B8%EB%9E%A8%20%EC%95%84%EC%9D%B4%EB%94%94%3A%0D%0A6.%20%ED%8F%AC%ED%8A%B8%ED%8F%B4%EB%A6%AC%EC%98%A4%20%EB%A7%81%ED%81%AC%3A%0D%0A%0D%0A%EC%9D%B4%EB%A0%A5%EC%84%9C%EC%99%80%20%EC%9E%90%EA%B8%B0%EC%86%8C%EA%B0%9C%EC%84%9C%EB%A5%BC%20%EC%B2%A8%EB%B6%80%ED%95%98%EA%B1%B0%EB%82%98%20%EB%A7%81%ED%81%AC%EB%A1%9C%20%EB%B3%B4%EB%82%B4%20%EC%A3%BC%EC%84%B8%EC%9A%94.">영상 PD 지원하기</a>
+          <a class="btn btn-primary btn-block" href="mailto:jh.kim@1percentclub.kr?subject=%5B%EC%A7%80%EC%9B%90%5D%20%EC%98%81%EC%83%81%20PD_%EC%9D%B4%EB%A6%84&amp;body=1.%20%EC%A7%80%EC%9B%90%20%ED%8F%AC%EC%A7%80%EC%85%98%3A%20%EC%98%81%EC%83%81%20PD%0D%0A2.%20%EC%9D%B4%EB%A6%84%3A%0D%0A3.%20%EC%97%B0%EB%9D%BD%EC%B2%98%3A%0D%0A4.%20%ED%9D%AC%EB%A7%9D%20%EC%97%B0%EB%B4%89%3A%0D%0A5.%20%EC%9D%B8%EC%8A%A4%ED%83%80%EA%B7%B8%EB%9E%A8%20%EC%95%84%EC%9D%B4%EB%94%94%3A%0D%0A6.%20%EC%A7%81%EC%A0%91%20%EB%A7%8C%EB%93%A0%20%EC%BD%98%ED%85%90%EC%B8%A0%20%EB%A7%81%ED%81%AC%28%ED%95%84%EC%88%98%2C%20%EB%A7%81%ED%81%AC%EB%A7%88%EB%8B%A4%20%EB%A7%A1%EC%9D%80%20%EC%97%AD%ED%95%A0%EA%B3%BC%20%EA%B8%B0%ED%9A%8D%20%EC%9D%98%EB%8F%84%20%ED%95%9C%20%EC%A4%84%29%3A%0D%0A%0D%0A%EA%B2%BD%EB%A0%A5%EC%9D%80%20%EB%B3%B4%EC%A7%80%20%EC%95%8A%EA%B3%A0%20%EC%BD%98%ED%85%90%EC%B8%A0%EB%A1%9C%20%ED%8C%90%EB%8B%A8%ED%95%A9%EB%8B%88%EB%8B%A4.%20%EC%9D%B4%EB%A0%A5%EC%84%9C%EC%99%80%20%EC%9E%90%EA%B8%B0%EC%86%8C%EA%B0%9C%EC%84%9C%EB%8A%94%20%EC%84%A0%ED%83%9D%EC%9E%85%EB%8B%88%EB%8B%A4.">영상 PD 지원하기</a>
           <p class="role-mail"><span>jh.kim@1percentclub.kr</span><button class="copy-btn" type="button" data-copy="jh.kim@1percentclub.kr">주소 복사</button></p>
         </div>
         <p class="role-switch">다른 포지션 보기 <a href="#editor">에디터</a><a href="#sales">세일즈 매니저</a></p>
@@ -600,7 +608,7 @@
         <h3>채용 절차</h3>
         <ol>
           <li class="step"><span class="dot">1</span><div><b>서류 접수</b><span>이메일로 서류를 보내 주세요.</span></div></li>
-          <li class="step"><span class="dot">2</span><div><b>서류 검토</b><span>검토 후 개별로 연락드립니다.</span></div></li>
+          <li class="step"><span class="dot">2</span><div><b>서류 검토</b><span>보내 주신 콘텐츠와 서류를 검토한 뒤 개별로 연락드립니다.</span></div></li>
           <li class="step"><span class="dot">3</span><div><b>면접</b><span>포지션에 따라 간단한 과제를 요청할 수 있습니다.</span></div></li>
           <li class="step"><span class="dot">4</span><div><b>처우 협의 · 입사</b><span>조건을 확정하고 함께 시작합니다.</span></div></li>
         </ol>
@@ -655,16 +663,16 @@
           <p class="must-title" id="must-title">메일에 꼭 넣어 주세요</p>
           <ol class="must" aria-labelledby="must-title">
             <li><span>지원 포지션</span></li>
-            <li><span>자유 형식 이력서와 자기소개서 <small>(링크 가능)</small></span></li>
-            <li><span>포트폴리오 <small>(에디터·영상 PD 필수, 링크 가능)</small></span></li>
+            <li><span>직접 만든 콘텐츠 링크 <small>(에디터·영상 PD 필수)</small></span></li>
+            <li><span>이력서와 자기소개서 <small>(세일즈 매니저 필수, 콘텐츠 팀은 선택)</small></span></li>
             <li><span>희망 연봉</span></li>
             <li><span>본인 인스타그램 아이디</span></li>
           </ol>
         </div>
         <div class="apply-actions">
-          <a class="btn btn-primary" href="mailto:jh.kim@1percentclub.kr?subject=%5B%EC%A7%80%EC%9B%90%5D%20%EC%97%90%EB%94%94%ED%84%B0_%EC%9D%B4%EB%A6%84&amp;body=1.%20%EC%A7%80%EC%9B%90%20%ED%8F%AC%EC%A7%80%EC%85%98%3A%20%EC%97%90%EB%94%94%ED%84%B0%0D%0A2.%20%EC%9D%B4%EB%A6%84%3A%0D%0A3.%20%EC%97%B0%EB%9D%BD%EC%B2%98%3A%0D%0A4.%20%ED%9D%AC%EB%A7%9D%20%EC%97%B0%EB%B4%89%3A%0D%0A5.%20%EC%9D%B8%EC%8A%A4%ED%83%80%EA%B7%B8%EB%9E%A8%20%EC%95%84%EC%9D%B4%EB%94%94%3A%0D%0A6.%20%ED%8F%AC%ED%8A%B8%ED%8F%B4%EB%A6%AC%EC%98%A4%20%EB%A7%81%ED%81%AC%3A%0D%0A%0D%0A%EC%9D%B4%EB%A0%A5%EC%84%9C%EC%99%80%20%EC%9E%90%EA%B8%B0%EC%86%8C%EA%B0%9C%EC%84%9C%EB%A5%BC%20%EC%B2%A8%EB%B6%80%ED%95%98%EA%B1%B0%EB%82%98%20%EB%A7%81%ED%81%AC%EB%A1%9C%20%EB%B3%B4%EB%82%B4%20%EC%A3%BC%EC%84%B8%EC%9A%94."><span>에디터 지원하기</span><svg viewBox="0 0 24 24" fill="none" stroke="currentColor" stroke-width="2" stroke-linecap="round" stroke-linejoin="round" aria-hidden="true"><path d="M5 12h14M13 6l6 6-6 6"/></svg></a>
+          <a class="btn btn-primary" href="mailto:jh.kim@1percentclub.kr?subject=%5B%EC%A7%80%EC%9B%90%5D%20%EC%97%90%EB%94%94%ED%84%B0_%EC%9D%B4%EB%A6%84&amp;body=1.%20%EC%A7%80%EC%9B%90%20%ED%8F%AC%EC%A7%80%EC%85%98%3A%20%EC%97%90%EB%94%94%ED%84%B0%0D%0A2.%20%EC%9D%B4%EB%A6%84%3A%0D%0A3.%20%EC%97%B0%EB%9D%BD%EC%B2%98%3A%0D%0A4.%20%ED%9D%AC%EB%A7%9D%20%EC%97%B0%EB%B4%89%3A%0D%0A5.%20%EC%9D%B8%EC%8A%A4%ED%83%80%EA%B7%B8%EB%9E%A8%20%EC%95%84%EC%9D%B4%EB%94%94%3A%0D%0A6.%20%EC%A7%81%EC%A0%91%20%EB%A7%8C%EB%93%A0%20%EC%BD%98%ED%85%90%EC%B8%A0%20%EB%A7%81%ED%81%AC%28%ED%95%84%EC%88%98%2C%20%EB%A7%81%ED%81%AC%EB%A7%88%EB%8B%A4%20%EB%A7%A1%EC%9D%80%20%EC%97%AD%ED%95%A0%EA%B3%BC%20%EA%B8%B0%ED%9A%8D%20%EC%9D%98%EB%8F%84%20%ED%95%9C%20%EC%A4%84%29%3A%0D%0A%0D%0A%EA%B2%BD%EB%A0%A5%EC%9D%80%20%EB%B3%B4%EC%A7%80%20%EC%95%8A%EA%B3%A0%20%EC%BD%98%ED%85%90%EC%B8%A0%EB%A1%9C%20%ED%8C%90%EB%8B%A8%ED%95%A9%EB%8B%88%EB%8B%A4.%20%EC%9D%B4%EB%A0%A5%EC%84%9C%EC%99%80%20%EC%9E%90%EA%B8%B0%EC%86%8C%EA%B0%9C%EC%84%9C%EB%8A%94%20%EC%84%A0%ED%83%9D%EC%9E%85%EB%8B%88%EB%8B%A4."><span>에디터 지원하기</span><svg viewBox="0 0 24 24" fill="none" stroke="currentColor" stroke-width="2" stroke-linecap="round" stroke-linejoin="round" aria-hidden="true"><path d="M5 12h14M13 6l6 6-6 6"/></svg></a>
           <a class="btn btn-primary" href="mailto:jh.kim@1percentclub.kr?subject=%5B%EC%A7%80%EC%9B%90%5D%20%EC%84%B8%EC%9D%BC%EC%A6%88%20%EB%A7%A4%EB%8B%88%EC%A0%80_%EC%9D%B4%EB%A6%84&amp;body=1.%20%EC%A7%80%EC%9B%90%20%ED%8F%AC%EC%A7%80%EC%85%98%3A%20%EC%84%B8%EC%9D%BC%EC%A6%88%20%EB%A7%A4%EB%8B%88%EC%A0%80%0D%0A2.%20%EC%9D%B4%EB%A6%84%3A%0D%0A3.%20%EC%97%B0%EB%9D%BD%EC%B2%98%3A%0D%0A4.%20%ED%9D%AC%EB%A7%9D%20%EC%97%B0%EB%B4%89%3A%0D%0A5.%20%EC%9D%B8%EC%8A%A4%ED%83%80%EA%B7%B8%EB%9E%A8%20%EC%95%84%EC%9D%B4%EB%94%94%3A%0D%0A6.%20%ED%8F%AC%ED%8A%B8%ED%8F%B4%EB%A6%AC%EC%98%A4%20%EB%A7%81%ED%81%AC%28%EC%84%A0%ED%83%9D%29%3A%0D%0A%0D%0A%EC%9D%B4%EB%A0%A5%EC%84%9C%EC%99%80%20%EC%9E%90%EA%B8%B0%EC%86%8C%EA%B0%9C%EC%84%9C%EB%A5%BC%20%EC%B2%A8%EB%B6%80%ED%95%98%EA%B1%B0%EB%82%98%20%EB%A7%81%ED%81%AC%EB%A1%9C%20%EB%B3%B4%EB%82%B4%20%EC%A3%BC%EC%84%B8%EC%9A%94."><span>세일즈 매니저 지원하기</span><svg viewBox="0 0 24 24" fill="none" stroke="currentColor" stroke-width="2" stroke-linecap="round" stroke-linejoin="round" aria-hidden="true"><path d="M5 12h14M13 6l6 6-6 6"/></svg></a>
-          <a class="btn btn-primary" href="mailto:jh.kim@1percentclub.kr?subject=%5B%EC%A7%80%EC%9B%90%5D%20%EC%98%81%EC%83%81%20PD_%EC%9D%B4%EB%A6%84&amp;body=1.%20%EC%A7%80%EC%9B%90%20%ED%8F%AC%EC%A7%80%EC%85%98%3A%20%EC%98%81%EC%83%81%20PD%0D%0A2.%20%EC%9D%B4%EB%A6%84%3A%0D%0A3.%20%EC%97%B0%EB%9D%BD%EC%B2%98%3A%0D%0A4.%20%ED%9D%AC%EB%A7%9D%20%EC%97%B0%EB%B4%89%3A%0D%0A5.%20%EC%9D%B8%EC%8A%A4%ED%83%80%EA%B7%B8%EB%9E%A8%20%EC%95%84%EC%9D%B4%EB%94%94%3A%0D%0A6.%20%ED%8F%AC%ED%8A%B8%ED%8F%B4%EB%A6%AC%EC%98%A4%20%EB%A7%81%ED%81%AC%3A%0D%0A%0D%0A%EC%9D%B4%EB%A0%A5%EC%84%9C%EC%99%80%20%EC%9E%90%EA%B8%B0%EC%86%8C%EA%B0%9C%EC%84%9C%EB%A5%BC%20%EC%B2%A8%EB%B6%80%ED%95%98%EA%B1%B0%EB%82%98%20%EB%A7%81%ED%81%AC%EB%A1%9C%20%EB%B3%B4%EB%82%B4%20%EC%A3%BC%EC%84%B8%EC%9A%94."><span>영상 PD 지원하기</span><svg viewBox="0 0 24 24" fill="none" stroke="currentColor" stroke-width="2" stroke-linecap="round" stroke-linejoin="round" aria-hidden="true"><path d="M5 12h14M13 6l6 6-6 6"/></svg></a>
+          <a class="btn btn-primary" href="mailto:jh.kim@1percentclub.kr?subject=%5B%EC%A7%80%EC%9B%90%5D%20%EC%98%81%EC%83%81%20PD_%EC%9D%B4%EB%A6%84&amp;body=1.%20%EC%A7%80%EC%9B%90%20%ED%8F%AC%EC%A7%80%EC%85%98%3A%20%EC%98%81%EC%83%81%20PD%0D%0A2.%20%EC%9D%B4%EB%A6%84%3A%0D%0A3.%20%EC%97%B0%EB%9D%BD%EC%B2%98%3A%0D%0A4.%20%ED%9D%AC%EB%A7%9D%20%EC%97%B0%EB%B4%89%3A%0D%0A5.%20%EC%9D%B8%EC%8A%A4%ED%83%80%EA%B7%B8%EB%9E%A8%20%EC%95%84%EC%9D%B4%EB%94%94%3A%0D%0A6.%20%EC%A7%81%EC%A0%91%20%EB%A7%8C%EB%93%A0%20%EC%BD%98%ED%85%90%EC%B8%A0%20%EB%A7%81%ED%81%AC%28%ED%95%84%EC%88%98%2C%20%EB%A7%81%ED%81%AC%EB%A7%88%EB%8B%A4%20%EB%A7%A1%EC%9D%80%20%EC%97%AD%ED%95%A0%EA%B3%BC%20%EA%B8%B0%ED%9A%8D%20%EC%9D%98%EB%8F%84%20%ED%95%9C%20%EC%A4%84%29%3A%0D%0A%0D%0A%EA%B2%BD%EB%A0%A5%EC%9D%80%20%EB%B3%B4%EC%A7%80%20%EC%95%8A%EA%B3%A0%20%EC%BD%98%ED%85%90%EC%B8%A0%EB%A1%9C%20%ED%8C%90%EB%8B%A8%ED%95%A9%EB%8B%88%EB%8B%A4.%20%EC%9D%B4%EB%A0%A5%EC%84%9C%EC%99%80%20%EC%9E%90%EA%B8%B0%EC%86%8C%EA%B0%9C%EC%84%9C%EB%8A%94%20%EC%84%A0%ED%83%9D%EC%9E%85%EB%8B%88%EB%8B%A4."><span>영상 PD 지원하기</span><svg viewBox="0 0 24 24" fill="none" stroke="currentColor" stroke-width="2" stroke-linecap="round" stroke-linejoin="round" aria-hidden="true"><path d="M5 12h14M13 6l6 6-6 6"/></svg></a>
           <p class="apply-hint">버튼을 누르면 메일 앱이 열리고 제목과 양식이 채워집니다. 메일 앱이 열리지 않으면 주소를 복사해 보내 주세요.</p>
         </div>
       </div>
